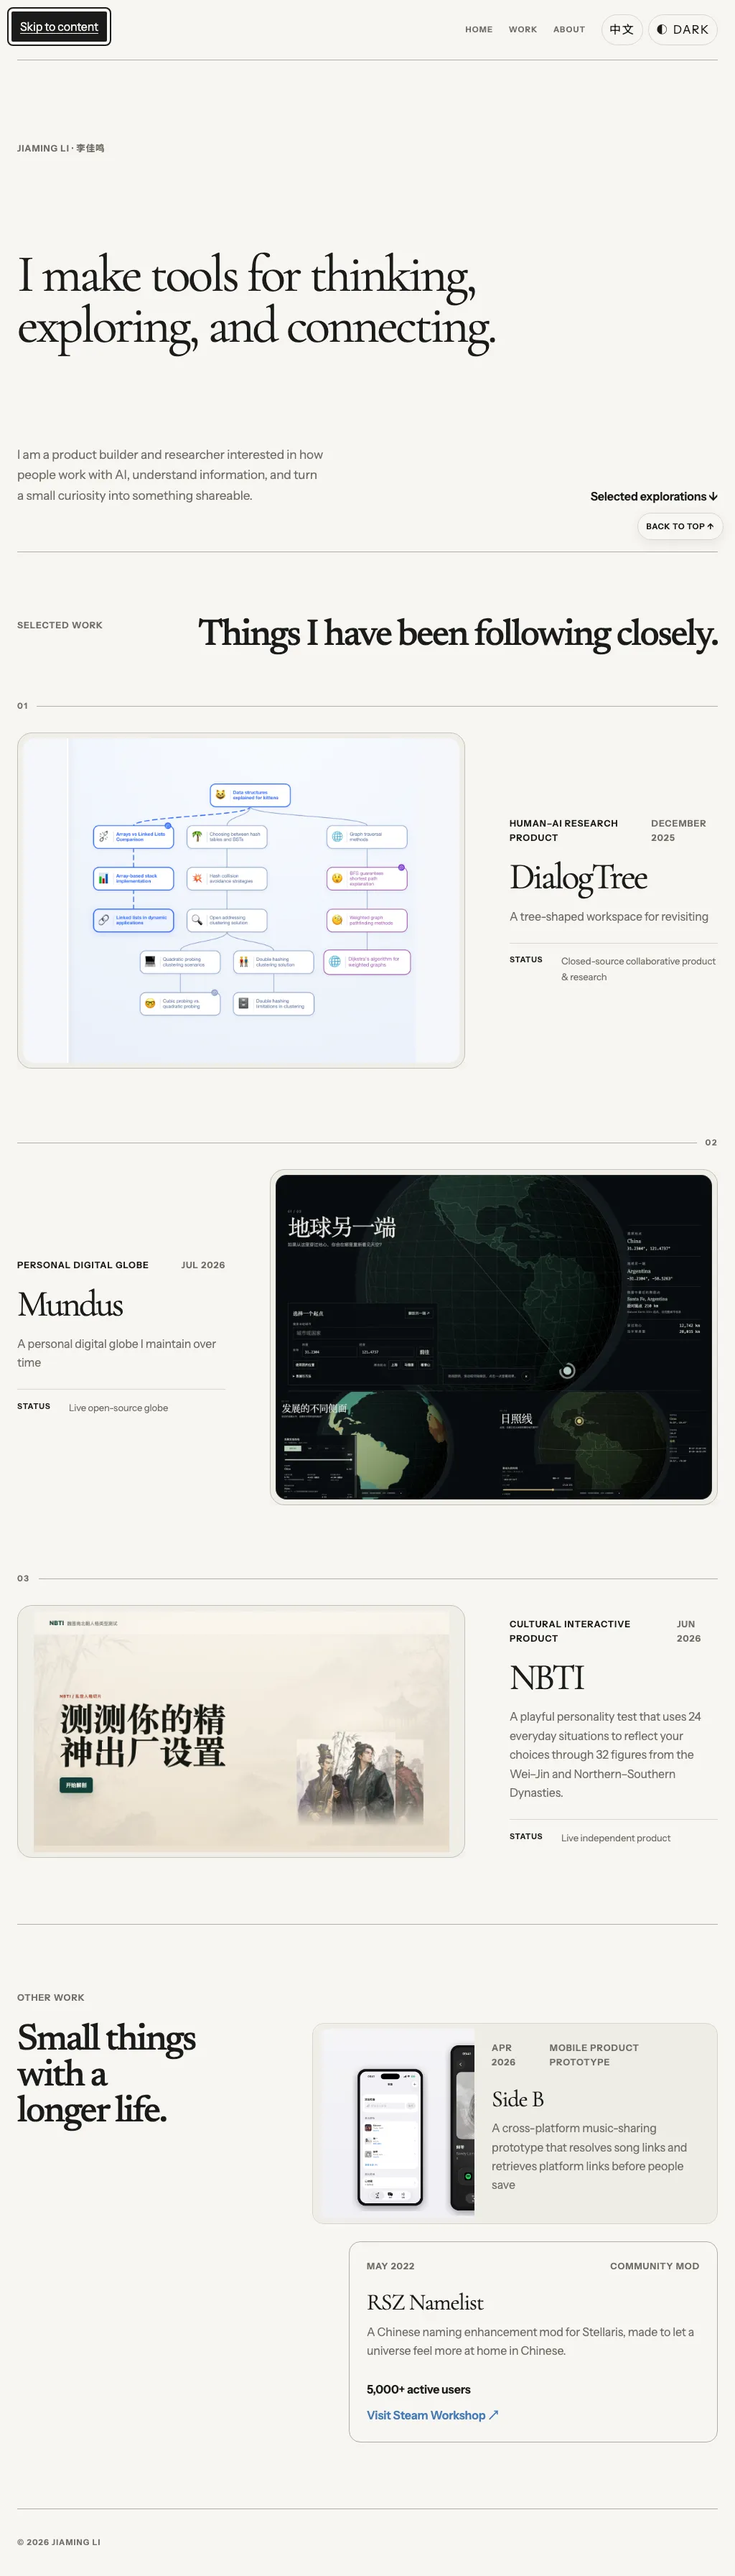
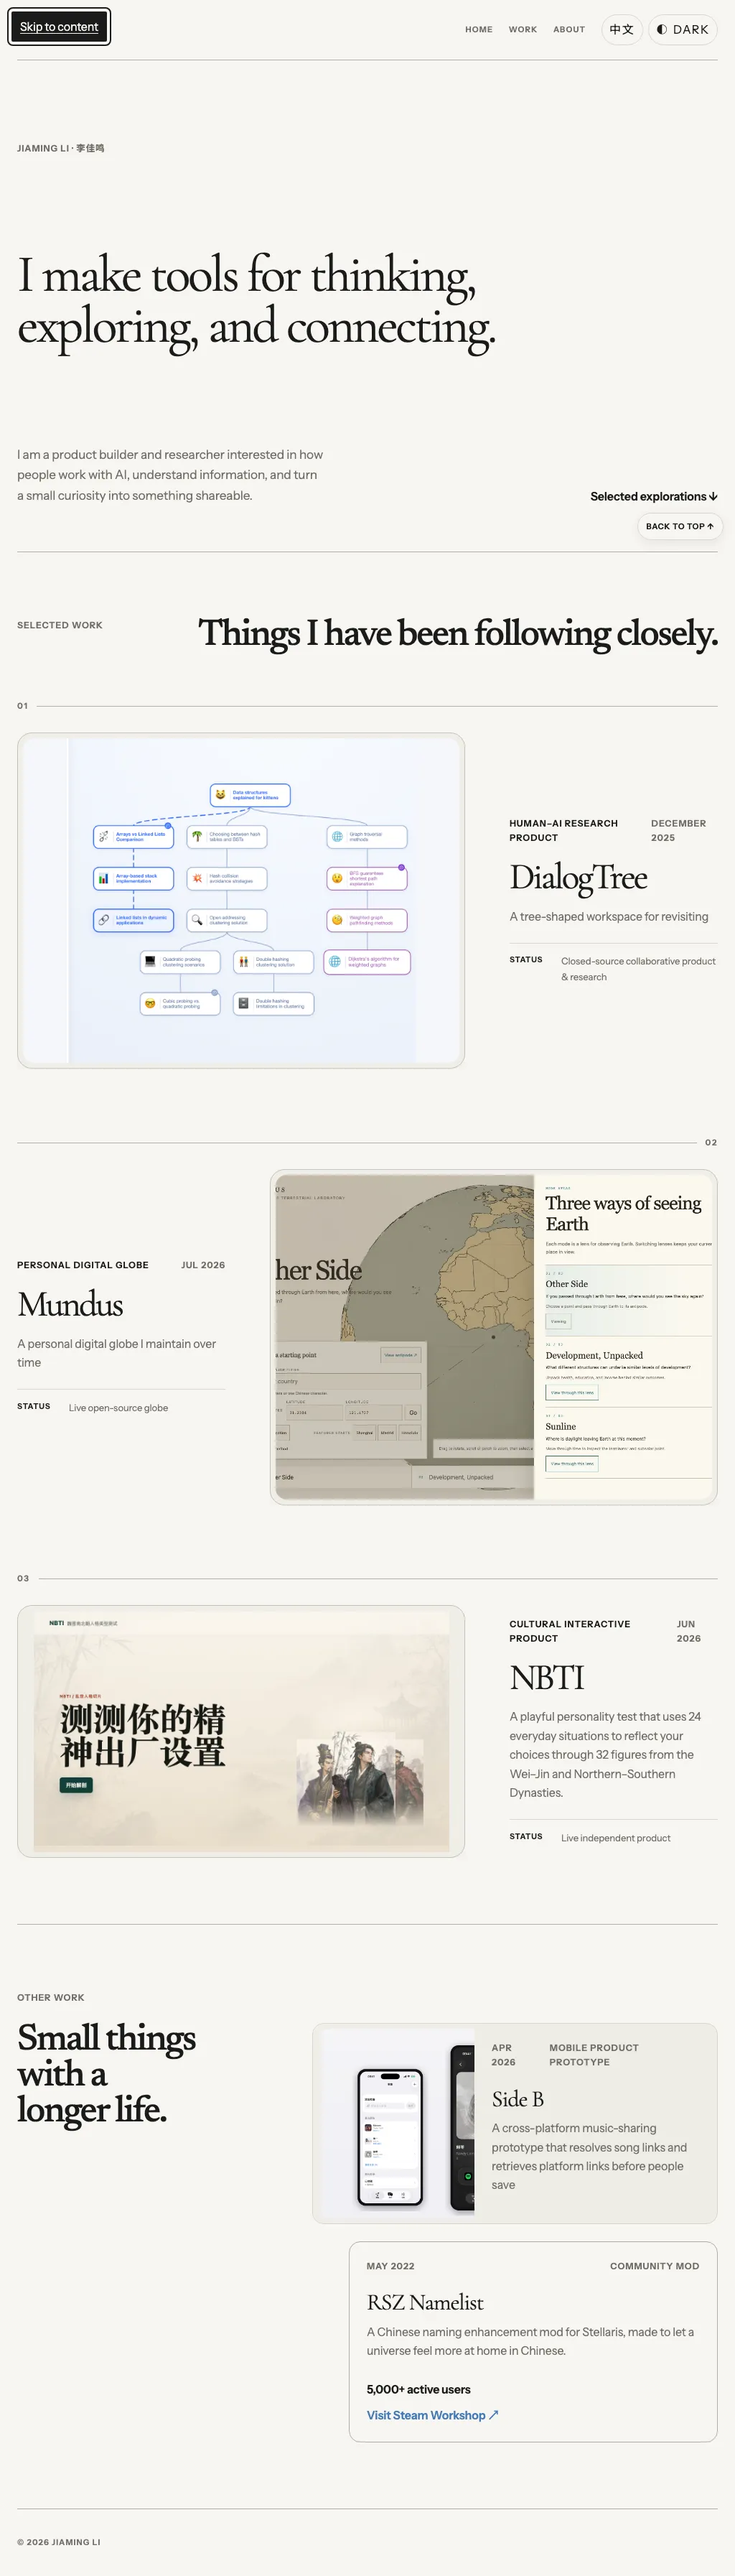
assets(portfolio): refresh Mundus V1.1 media

Changed region(s): [[0.375, 0.4371, 0.9688, 0.5933]]

diff --git a/docs/verification/task7-release-verification.md b/docs/verification/task7-release-verification.md
@@ -42,6 +42,9 @@ case and Story to:
 Only capabilities observable on the public Pages deployment are presented as
 shipped. GHSL Human Morphology is explicitly not a public feature. The
 `v1.0.0` tag and Release remain unchanged; no V1.1 tag or Release is claimed.
+The two case-study media files are direct captures of that deployment: the
+Other Side Parchment Atlas is the hero, and its open Mode atlas is the single
+Story visual.
 
 ## Browser Matrix
 
